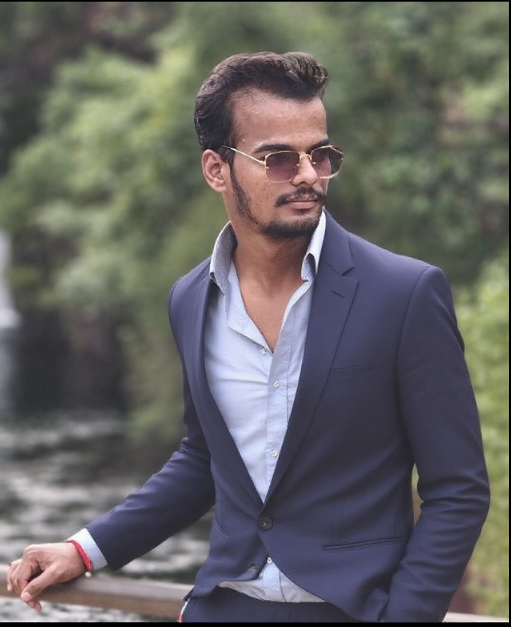
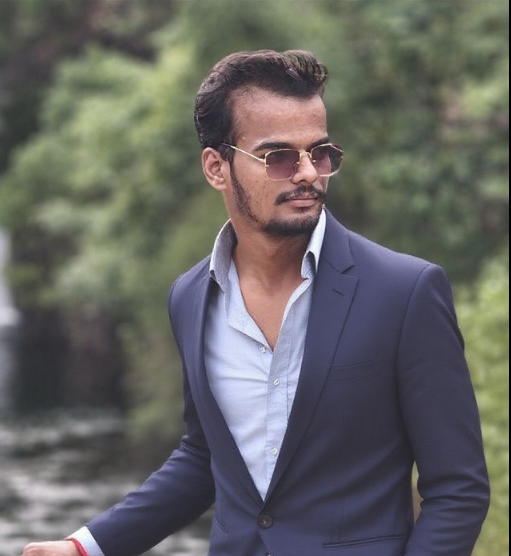
about image changed

diff --git a/index.html b/index.html
@@ -114,7 +114,7 @@
             <h2 class="section-title" data-heading="My Intro">About me</h2>
 
             <div class="about-container container grid">
-                <img src="assets/IMG-20240613-WA0000.png" alt="" class="about-img">
+                <img src="assets/Made_with_insMind-IMG_2146_cleanup-removebg-preview.png" alt="" class="about-img">
 
                 <div class="about-data">
                     <h3 class="about-heading">Hi, I'm Prajwal Nikam Based in Kolhapur, Maharashtra</h3>
@@ -214,7 +214,7 @@
                         <i class="uil uil-brackets-curly skills-icon"></i>
 
                         <div>
-                            <h1 class="skills-title">Full Stack Laravel Web Developer</h1>
+                            <h1 class="skills-title">Full Stack Web Developer</h1>
                             <span class="skills-subtitle">More than 1 year</span>
                             
                         </div>
@@ -252,7 +252,7 @@
                         <div class="skills-list grid">
                             <div class="skills-data">
                                 <div class="skills-titles">
-                                    <h3 class="skills-name">PHP Laravel</h3>
+                                    <h3 class="skills-name">Laravel</h3>
                                     <span class="skills-number">90%</span>
                                 </div>
 
@@ -263,7 +263,7 @@
 
                             <div class="skills-data">
                                 <div class="skills-titles">
-                                    <h3 class="skills-name">HTML & CSS</h3>
+                                    <h3 class="skills-name">Java</h3>
                                     <span class="skills-number">80%</span>
                                 </div>
 
@@ -274,7 +274,7 @@
 
                             <div class="skills-data">
                                 <div class="skills-titles">
-                                    <h3 class="skills-name">Javascript</h3>
+                                    <h3 class="skills-name">Java-Spring Boot</h3>
                                     <span class="skills-number">60%</span>
                                 </div>
 
@@ -285,7 +285,7 @@
 
                             <div class="skills-data">
                                 <div class="skills-titles">
-                                    <h3 class="skills-name">PHP</h3>
+                                    <h3 class="skills-name">React</h3>
                                     <span class="skills-number">85%</span>
                                 </div>
 
@@ -326,9 +326,9 @@
                                     <span class="skills-number">70%</span>
                                 </div>
 
-                                <!-- <div class="skills-bar">
+                                <div class="skills-bar">
                                     <span class="skills-percentage" style="width: 70%;"></span>
-                                </div> -->
+                                </div>
                             </div>
 
                         </div>
@@ -338,7 +338,7 @@
                         <div class="skills-list grid">
                             <div class="skills-data">
                                 <div class="skills-titles">
-                                    <h3 class="skills-name">PHP</h3>
+                                    <h3 class="skills-name">Laravel</h3>
                                     <span class="skills-number">80%</span>
                                 </div>
 
@@ -349,7 +349,7 @@
 
                             <div class="skills-data">
                                 <div class="skills-titles">
-                                    <h3 class="skills-name">HTML & CSS</h3>
+                                    <h3 class="skills-name">Java</h3>
                                     <span class="skills-number">80%</span>
                                 </div>
 
@@ -360,7 +360,7 @@
 
                             <div class="skills-data">
                                 <div class="skills-titles">
-                                    <h3 class="skills-name">MySQL</h3>
+                                    <h3 class="skills-name">Java Spring Boot</h3>
                                     <span class="skills-number">70%</span>
                                 </div>
 
@@ -371,7 +371,7 @@
 
                             <div class="skills-data">
                                 <div class="skills-titles">
-                                    <h3 class="skills-name"></h3>
+                                    <h3 class="skills-name">Java Script</h3>
                                     <span class="skills-number">75%</span>
                                 </div>
 

diff --git a/style.css b/style.css
@@ -361,14 +361,14 @@ button { cursor: pointer; }
 .portfolio-popup-content { grid-template-columns: repeat(2, 1fr); align-items: center; column-gap: 3rem; }
 .portfolio-popup-close { position: absolute; top: 1.5rem; right: 1.5rem; font-size: 1.5rem; color: var(--skin-color); cursor: pointer; }
 .portfolio-popup-img { border-radius: .5rem; }
-.portfolio-popup-subtitle { font-size: var(--smaller-font-size); margin-bottom: var(--mb025); }
-.details-title { font-size: var(--h3-font-size); font-weight: var(--font-medium); margin-bottom: var(--mb1); }
-.details-description { font-size: var(--small-font-size); margin-bottom: var(--mb2); }
-.details-info li { margin-bottom: var(--mb075); text-transform: capitalize; font-size: var(--small-font-size); }
+.portfolio-popup-subtitle { font-size: var(--smaller-font-size); margin-bottom: var(--mb025); color: #d8cbd0;}
+.details-title { font-size: var(--h3-font-size); font-weight: var(--font-medium); margin-bottom: var(--mb1); color: #d8cbd0;}
+.details-description { font-size: var(--small-font-size); margin-bottom: var(--mb2); color: #d8cbd0;}
+.details-info li { margin-bottom: var(--mb075); text-transform: capitalize; font-size: var(--small-font-size); color: #d8cbd0;}
     .details-info li:last-child { margin-bottom: 0; }
     .details-info li span { font-weight: normal; }
     .details-info li a { text-transform: lowercase; color: var(--skin-color); }
-
+  
 /* Main - Services */ 
 
 .services-container { grid-template-columns: repeat(3, 250px); justify-content: center; column-gap: 1.8rem; }
@@ -397,10 +397,10 @@ button { cursor: pointer; }
 .active-modal { opacity: 1; visibility: visible; }
 .services-modal-content { width: 500px; position: relative; background-color: var(--box-color); padding: 4.5rem 2.5rem 2.5rem; border-radius: .5rem; }
 .services-modal-close { position: absolute; top: 1.5rem; right: 1.5rem; font-size: 1.5rem; color: var(--skin-color); cursor: pointer; }
-.services-modal-title, .services-modal-description { text-align: center; }
+.services-modal-title, .services-modal-description { text-align: center;  color: #d8cbd0;}
     .services-modal-title { font-size: var(--h3-font-size); font-weight: var(--font-medium); margin-bottom: var(--mb1); }
     .services-modal-description { font-size: var(--small-font-size); padding: 0 3.5rem; margin-bottom: var(--mb2); }
-.services-modal-services { row-gap: var(--mb075); }
+.services-modal-services { row-gap: var(--mb075);  color: #d8cbd0;}
 .services-modal-service { display: flex; align-items: center; column-gap: .5rem; }
 .services-modal-icon { color: var(--skin-color); font-size: 1.1rem; }
 .services-modal-info { font-size: var(--small-font-size); }
